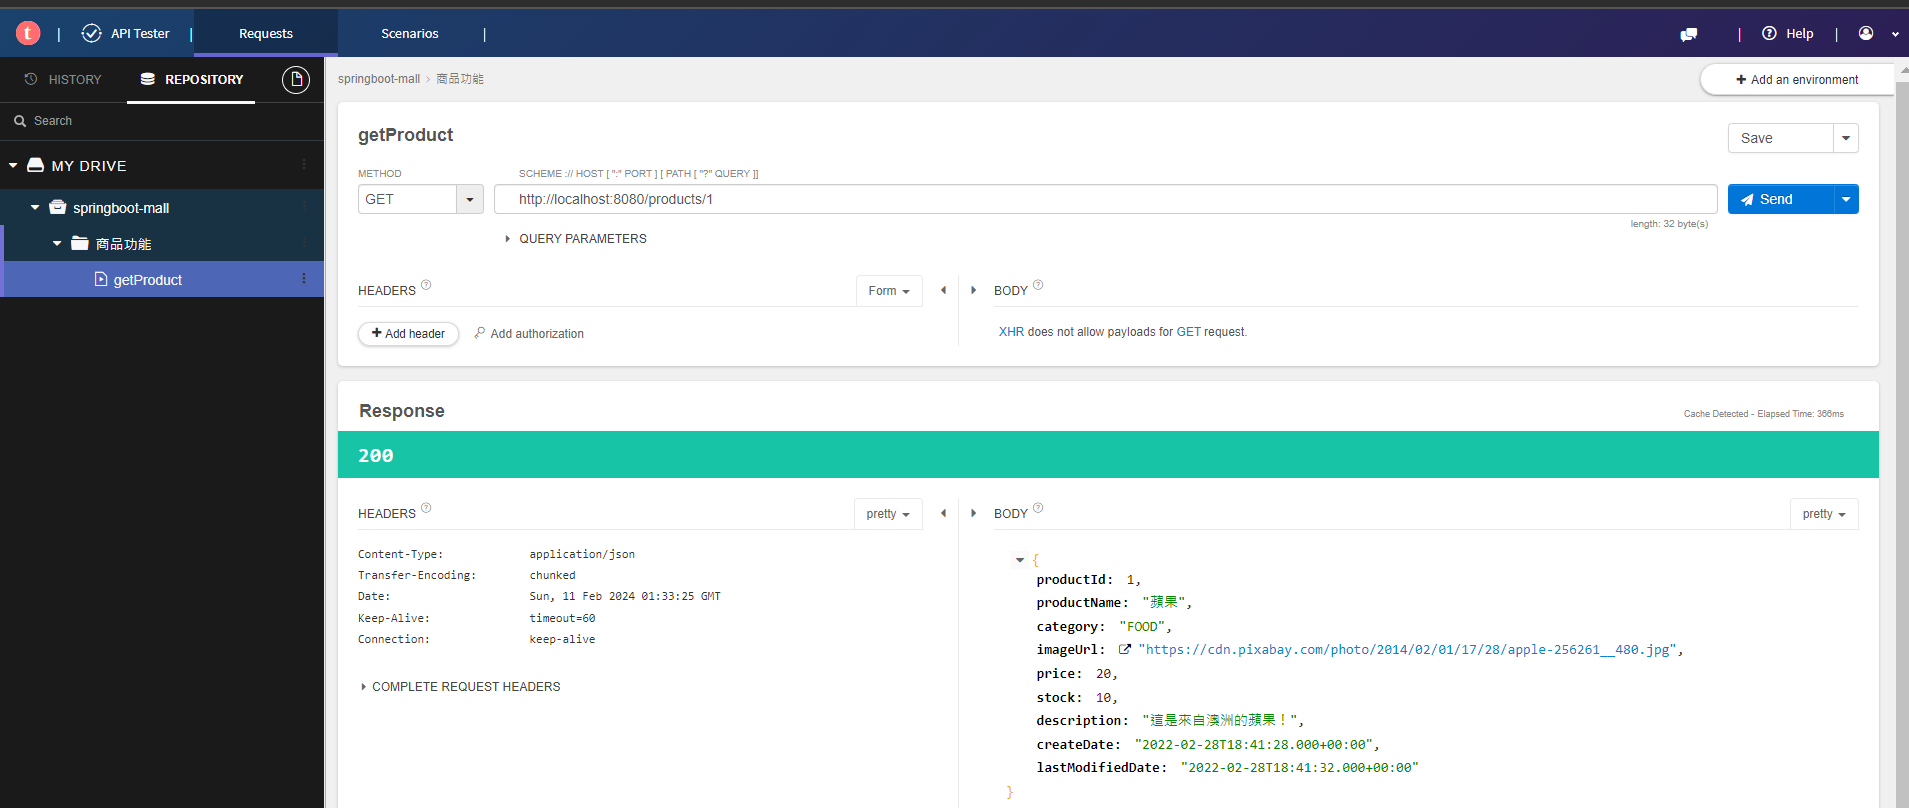
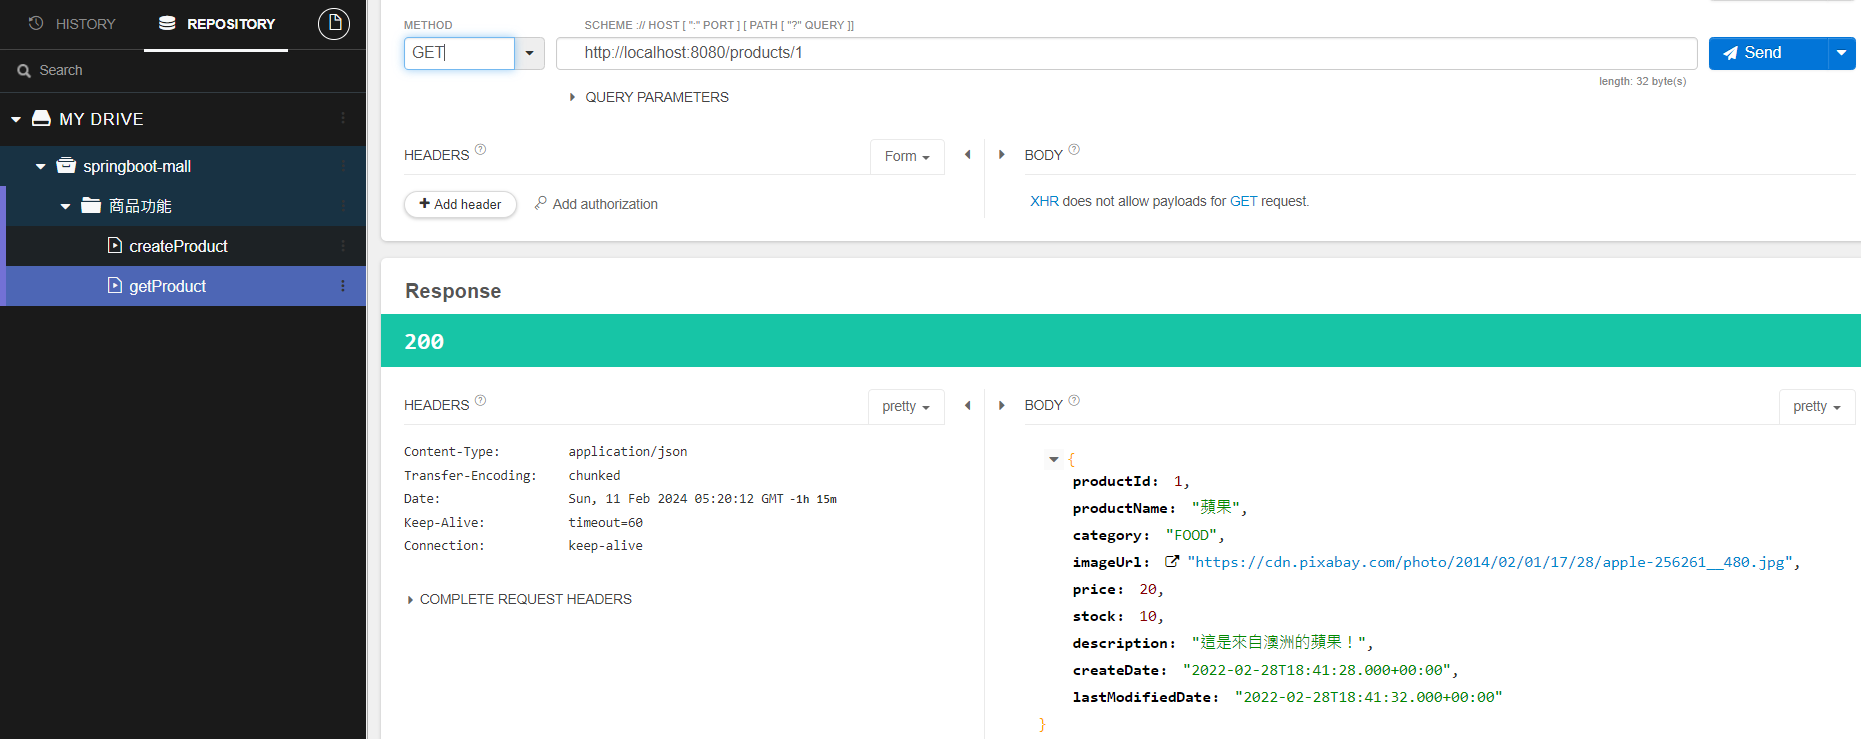
商品功能 - 實作新增商品

diff --git a/springboot-mall/src/main/java/com/bocheng/springbootmall/dao/impl/ProductDaoImp.java b/springboot-mall/src/main/java/com/bocheng/springbootmall/dao/impl/ProductDaoImp.java
@@ -1,12 +1,17 @@
 package com.bocheng.springbootmall.dao.impl;
 
 import com.bocheng.springbootmall.dao.ProductDao;
+import com.bocheng.springbootmall.dto.ProductRequest;
 import com.bocheng.springbootmall.model.Product;
 import com.bocheng.springbootmall.rowmapper.ProductRowMapper;
 import org.springframework.beans.factory.annotation.Autowired;
+import org.springframework.jdbc.core.namedparam.MapSqlParameterSource;
 import org.springframework.jdbc.core.namedparam.NamedParameterJdbcTemplate;
+import org.springframework.jdbc.support.GeneratedKeyHolder;
+import org.springframework.jdbc.support.KeyHolder;
 import org.springframework.stereotype.Component;
 
+import java.util.Date;
 import java.util.HashMap;
 import java.util.List;
 import java.util.Map;
@@ -37,5 +42,34 @@ public class ProductDaoImp implements ProductDao {
             return null;
         }
 
+    }
+
+    @Override
+    public Integer createProduct(ProductRequest productRequest) {
+        String sql = "INSERT INTO product (product_name, category, image_url, " +
+                "price, stock, description, created_date, last_modified_date) " +
+                "VALUES (:productName, :category, :imageUrl, :price, :stock, " +
+                ":description, :createDate, :lastModifiedDate)";
+
+        Map<String, Object> map = new HashMap<>();
+        map.put("productName", productRequest.getProductName());
+        map.put("category", productRequest.getCategory().toString());
+        map.put("imageUrl", productRequest.getImageUrl());
+        map.put("price", productRequest.getPrice());
+        map.put("stock", productRequest.getStock());
+        map.put("description", productRequest.getDescription());
+
+        Date now = new Date();
+        map.put("createDate", now);
+        map.put("lastModifiedDate", now);
+
+        KeyHolder keyHolder = new GeneratedKeyHolder();
+
+        //更新資料庫，建立新商品
+        namedParameterJdbcTemplate.update(sql, new MapSqlParameterSource(map), keyHolder);
+        //將新商品的 productId存取
+        int productId = keyHolder.getKey().intValue();
+
+        return productId;
     }
 }

diff --git a/springboot-mall/src/main/java/com/bocheng/springbootmall/controller/ProductController.java b/springboot-mall/src/main/java/com/bocheng/springbootmall/controller/ProductController.java
@@ -1,13 +1,13 @@
 package com.bocheng.springbootmall.controller;
 
+import com.bocheng.springbootmall.dto.ProductRequest;
 import com.bocheng.springbootmall.model.Product;
 import com.bocheng.springbootmall.service.ProductService;
+import jakarta.validation.Valid;
 import org.springframework.beans.factory.annotation.Autowired;
 import org.springframework.http.HttpStatus;
 import org.springframework.http.ResponseEntity;
-import org.springframework.web.bind.annotation.GetMapping;
-import org.springframework.web.bind.annotation.PathVariable;
-import org.springframework.web.bind.annotation.RestController;
+import org.springframework.web.bind.annotation.*;
 
 @RestController
 public class ProductController {
@@ -16,6 +16,7 @@ public class ProductController {
     @Autowired
     private ProductService productService;
 
+    //查詢商品功能
     //ResponseEntity 自定義回傳的 http response的細節
     //返回 Product類型的 ResponseEntity
     //取得商品數據用 Get請求
@@ -32,5 +33,19 @@ public class ProductController {
             // 回傳 404給前端
             return ResponseEntity.status(HttpStatus.NOT_FOUND).build();
         }
+    }
+
+    //新增商品功能
+    //創建新的 class，專門接住前段傳回來的 Json參數。放在 dto.ProductRequest
+    //@RequestBody 接住前段傳過來的 request。要記得加上@Valid
+    @PostMapping("/products")
+    public ResponseEntity<Product> createProduct(@RequestBody @Valid ProductRequest productRequest){
+        Integer productId = productService.createProduct(productRequest);
+
+        //使用 productID來查詢商品數據
+        Product product = productService.getProductById(productId);
+
+        //把商品數據傳給前端 body，並回傳201
+        return ResponseEntity.status(HttpStatus.CREATED).body(product);
     }
 }

diff --git a/springboot-mall/src/main/java/com/bocheng/springbootmall/dto/ProductRequest.java b/springboot-mall/src/main/java/com/bocheng/springbootmall/dto/ProductRequest.java
@@ -1,0 +1,70 @@
+package com.bocheng.springbootmall.dto;
+
+import com.bocheng.springbootmall.constant.ProductCategory;
+import jakarta.validation.constraints.NotNull;
+
+public class ProductRequest {
+
+    //用@NotNull來驗證前端傳過來的值。
+
+    //決定在創建商品時，前端要傳哪些參數過來
+    @NotNull
+    private String productName;
+    @NotNull
+    private ProductCategory category;
+    @NotNull
+    private String imageUrl;
+    @NotNull
+    private Integer price;
+    @NotNull
+    private Integer stock;
+    private String description;
+
+    public String getProductName() {
+        return productName;
+    }
+
+    public void setProductName(String productName) {
+        this.productName = productName;
+    }
+
+    public ProductCategory getCategory() {
+        return category;
+    }
+
+    public void setCategory(ProductCategory category) {
+        this.category = category;
+    }
+
+    public String getImageUrl() {
+        return imageUrl;
+    }
+
+    public void setImageUrl(String imageUrl) {
+        this.imageUrl = imageUrl;
+    }
+
+    public Integer getPrice() {
+        return price;
+    }
+
+    public void setPrice(Integer price) {
+        this.price = price;
+    }
+
+    public Integer getStock() {
+        return stock;
+    }
+
+    public void setStock(Integer stock) {
+        this.stock = stock;
+    }
+
+    public String getDescription() {
+        return description;
+    }
+
+    public void setDescription(String description) {
+        this.description = description;
+    }
+}

diff --git a/springboot-mall/src/main/java/com/bocheng/springbootmall/service/impl/ProductServiceImpl.java b/springboot-mall/src/main/java/com/bocheng/springbootmall/service/impl/ProductServiceImpl.java
@@ -1,6 +1,7 @@
 package com.bocheng.springbootmall.service.impl;
 
 import com.bocheng.springbootmall.dao.ProductDao;
+import com.bocheng.springbootmall.dto.ProductRequest;
 import com.bocheng.springbootmall.model.Product;
 import com.bocheng.springbootmall.service.ProductService;
 import org.springframework.beans.factory.annotation.Autowired;
@@ -16,5 +17,10 @@ public class ProductServiceImpl implements ProductService {
     // call productDao 的getProductById方法，把productId傳入
     public Product getProductById(Integer productId) {
         return productDao.getProductById(productId);
+    }
+
+    @Override
+    public Integer createProduct(ProductRequest productRequest) {
+        return productDao.createProduct(productRequest);
     }
 }

diff --git a/springboot-mall/src/main/java/com/bocheng/springbootmall/service/ProductService.java b/springboot-mall/src/main/java/com/bocheng/springbootmall/service/ProductService.java
@@ -1,8 +1,11 @@
 package com.bocheng.springbootmall.service;
 
+import com.bocheng.springbootmall.dto.ProductRequest;
 import com.bocheng.springbootmall.model.Product;
 
 public interface ProductService {
 
     Product getProductById(Integer productId);
+
+    Integer createProduct(ProductRequest productRequest);
 }

diff --git a/springboot-mall/src/main/java/com/bocheng/springbootmall/dao/ProductDao.java b/springboot-mall/src/main/java/com/bocheng/springbootmall/dao/ProductDao.java
@@ -1,8 +1,11 @@
 package com.bocheng.springbootmall.dao;
 
+import com.bocheng.springbootmall.dto.ProductRequest;
 import com.bocheng.springbootmall.model.Product;
 
 public interface ProductDao {
 
     Product getProductById(Integer productId);
+
+    Integer createProduct(ProductRequest productRequest);
 }
